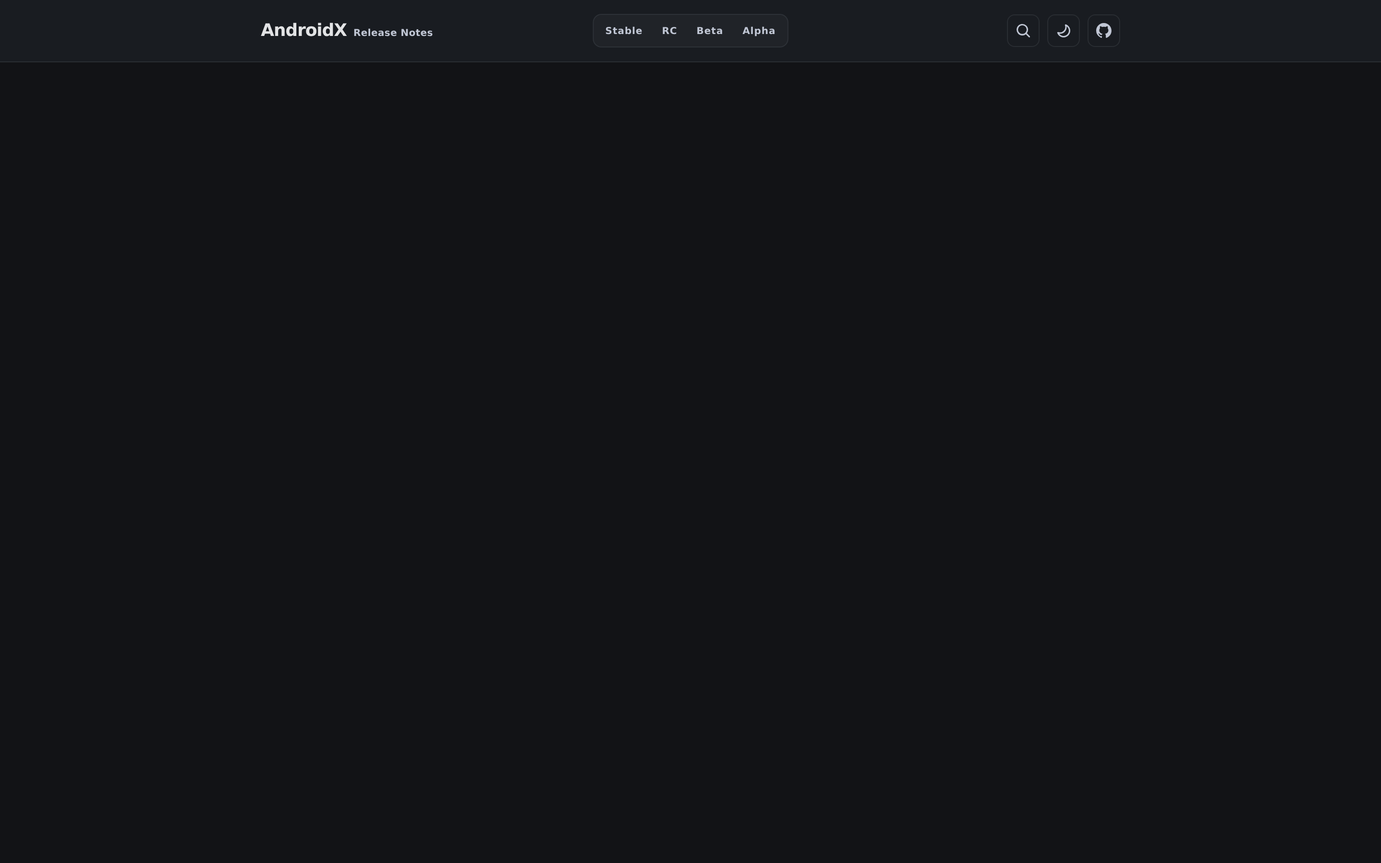
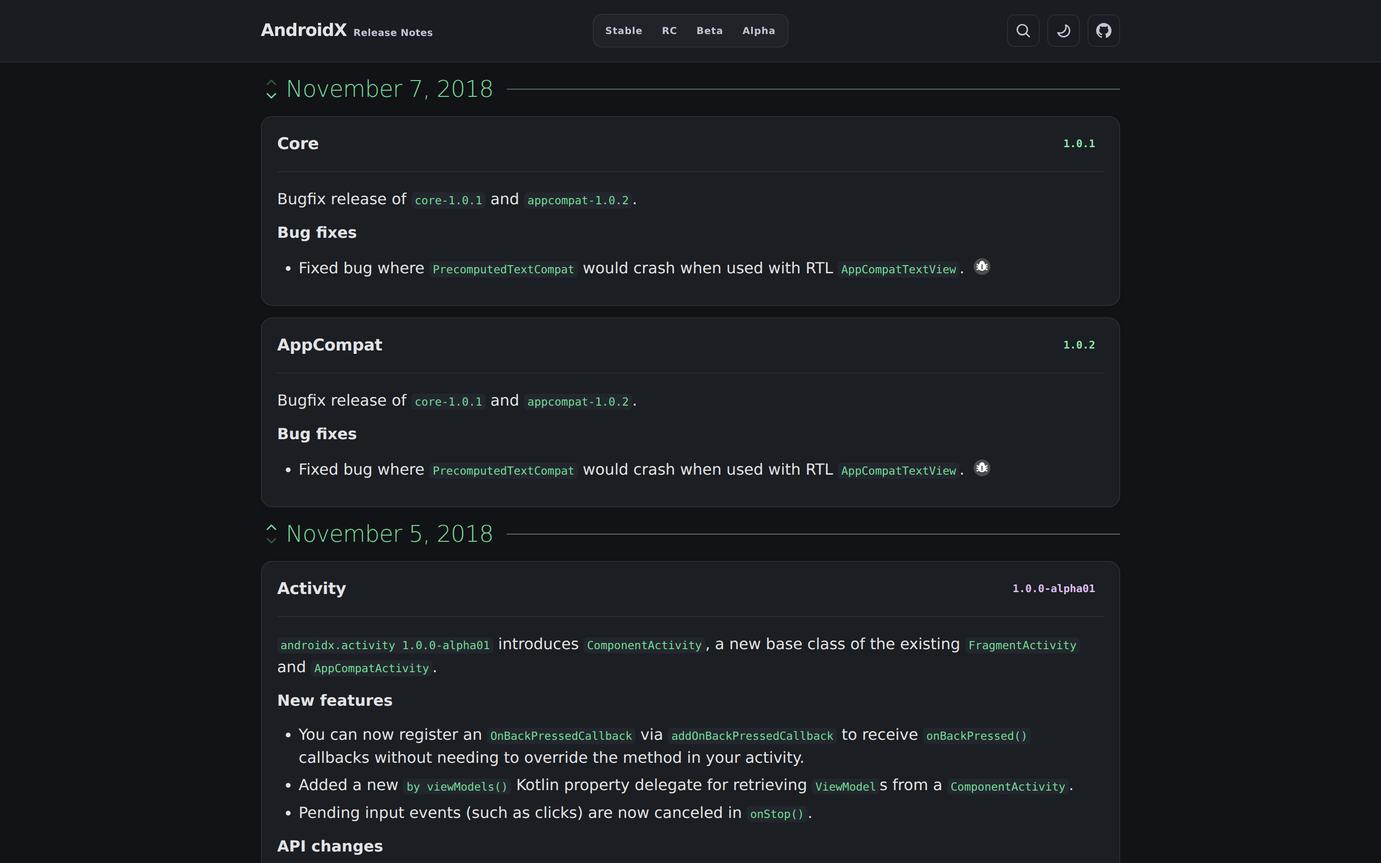
🤖 AndroidX release notes

diff --git a/docs/index.html b/docs/index.html
@@ -24,7 +24,77 @@
     </header>
     <main class="page-content">
       <div class="content-inner">
-        <div class="release-groups"></div>
+        <div class="release-groups">
+          <section class="date-group" id="november-7-2018">
+            <div class="date-divider">
+              <div class="date-stepper" role="group" aria-label="Navigate release dates"><button type="button" class="date-step" data-date-step="previous" aria-label="Previous date (newer)" title="Previous date (newer) · P" aria-keyshortcuts="P"></button><button type="button" class="date-step" data-date-step="next" aria-label="Next date (older)" title="Next date (older) · N" aria-keyshortcuts="N"></button></div>
+              <h2 class="date-title"><a href="2018-11-07.html" class="date-link" target="_self">November 7, 2018</a></h2>
+              <div class="divider-line"></div>
+            </div>
+            <article class="card" data-release-kind="stable" data-search="core 1.0.1 2018-11-07 november 7, 2018" id="november-7-2018-core-1-0-1">
+              <div class="head">
+                <h3 class="name"><a href="https://developer.android.com/jetpack/androidx/releases/core">Core</a></h3>
+                <div class="actions"><a href="https://developer.android.com/jetpack/androidx/releases/core#1.0.1" class="badge stable">1.0.1</a></div>
+              </div>
+              <div class="notes"><p>Bugfix release of <code>core-1.0.1</code> and <code>appcompat-1.0.2</code>.</p><p><strong>Bug fixes</strong></p><ul><li>Fixed bug where <code>PrecomputedTextCompat</code> would crash when used with RTL <code>AppCompatTextView</code>. <a href="https://issuetracker.google.com/113070424" title="b/113070424" class="ref ref-issue">b/113070424</a></li></ul></div>
+            </article>
+            <article class="card" data-release-kind="stable" data-search="appcompat 1.0.2 2018-11-07 november 7, 2018" id="november-7-2018-appcompat-1-0-2">
+              <div class="head">
+                <h3 class="name"><a href="https://developer.android.com/jetpack/androidx/releases/appcompat">AppCompat</a></h3>
+                <div class="actions"><a href="https://developer.android.com/jetpack/androidx/releases/appcompat#1.0.2" class="badge stable">1.0.2</a></div>
+              </div>
+              <div class="notes"><p>Bugfix release of <code>core-1.0.1</code> and <code>appcompat-1.0.2</code>.</p><p><strong>Bug fixes</strong></p><ul><li>Fixed bug where <code>PrecomputedTextCompat</code> would crash when used with RTL <code>AppCompatTextView</code>. <a href="https://issuetracker.google.com/113070424" title="b/113070424" class="ref ref-issue">b/113070424</a></li></ul></div>
+            </article>
+          </section>
+          <section class="date-group" id="november-5-2018">
+            <div class="date-divider">
+              <div class="date-stepper" role="group" aria-label="Navigate release dates"><button type="button" class="date-step" data-date-step="previous" aria-label="Previous date (newer)" title="Previous date (newer) · P" aria-keyshortcuts="P"></button><button type="button" class="date-step" data-date-step="next" aria-label="Next date (older)" title="Next date (older) · N" aria-keyshortcuts="N"></button></div>
+              <h2 class="date-title"><a href="2018-11-05.html" class="date-link" target="_self">November 5, 2018</a></h2>
+              <div class="divider-line"></div>
+            </div>
+            <article class="card" data-release-kind="alpha" data-search="activity 1.0.0-alpha01 2018-11-05 november 5, 2018" id="november-5-2018-activity-1-0-0-alpha01">
+              <div class="head">
+                <h3 class="name"><a href="https://developer.android.com/jetpack/androidx/releases/activity">Activity</a></h3>
+                <div class="actions"><a href="https://developer.android.com/jetpack/androidx/releases/activity#1.0.0-alpha01" class="badge alpha">1.0.0-alpha01</a></div>
+              </div>
+              <div class="notes"><p><code>androidx.activity 1.0.0-alpha01</code> introduces <code>ComponentActivity</code>, a new base class of the existing <code>FragmentActivity</code> and <code>AppCompatActivity</code>.</p><p><strong>New features</strong></p><ul><li>You can now register an <code>OnBackPressedCallback</code> via <code>addOnBackPressedCallback</code> to receive <code>onBackPressed()</code> callbacks without needing to override the method in your activity.</li><li>Added a new <code>by viewModels()</code> Kotlin property delegate for retrieving <code>ViewModel</code>s from a <code>ComponentActivity</code>.</li><li>Pending input events (such as clicks) are now canceled in <code>onStop()</code>.</li></ul><p><strong>API changes</strong></p><ul><li>The implementation of <code>LifecycleOwner</code> and <code>ViewModelStoreOwner</code> have been moved from <code>FragmentActivity</code> to <code>ComponentActivity</code>.</li><li><code>onRetainCustomNonConfigurationInstance</code> has been deprecated. Use a <code>ViewModel</code> for storing objects that need to survive configuration changes.</li></ul></div>
+            </article>
+            <article class="card" data-release-kind="alpha" data-search="core-telecom 1.1.0-alpha01 2018-11-05 november 5, 2018" id="november-5-2018-core-1-1-0-alpha01">
+              <div class="head">
+                <h3 class="name"><a href="https://developer.android.com/jetpack/androidx/releases/core">Core-Telecom</a></h3>
+                <div class="actions"><a href="https://developer.android.com/jetpack/androidx/releases/core#1.1.0-alpha01" class="badge alpha">1.1.0-alpha01</a></div>
+              </div>
+              <div class="notes"><p><strong>New features and API changes</strong></p><ul><li>NestedScrollingChild3 and NestedScrollingParent3 add the ‘consumed’ parameter to the overloaded dispatchNestedScroll and * onNestedScroll methods so that the view that drives nested scrolling can be better informed about how much scroll distance was * consumed by parents in each nested scroll pass.</li><li>NestedScrollView now implements NestedScrollingChild3 and NestedScrollingParent3, and therefore, the NestedScrollingChild2 and * NestedScrollingParent2 implementations of dispatchNestedScroll and onNestedScroll are not guaranteed to be called. Developers * counting on either being called should also override the new nested scrolling 3 version of dispatchNestedScroll and onNestedScroll.</li><li>ShortcutInfoCompat has the following new fields: Persons, categories and isLongLived. Done to advertise it can accept various types * of content.</li><li>Renamed SupportActivity to ComponentActivity. See androidx.activity for more info.</li><li>Added getMainExecutor() method, which returns an Executor link that will run enqueued tasks on the main thread associated with that * context.</li><li>Added compatibility implementation of Resources.getFloat.</li><li>Added Results Source to compat RemoteInput. This allows apps to distinguish direct and smart replies for logging purposes.</li><li>Added Kotlin extension functions for TextView TextWatcher actions.</li><li>Deprecated AccessibilityNodeInfo capability and flag setters; use actions instead.</li><li>Added AccessibilityPane to ViewCompat.</li><li>Exposed ClickableSpans on pre-O devices through the addition of AccessibilityClickableSpanCompat.</li><li>Deprecated <code>AccessibilityNodeInfoCompat.setFocusable()</code>, <code>setClickable()</code>, <code>setLongClickable()</code>, <code>setScrollable()</code>, and <code>setContextClickable()</code>. Added <code>AccessibilityAction</code>s instead.</li><li>Added <code>ViewCompat.setAccessibilityPaneTitle()</code>, <code>getAccessibilityPaneTitle()</code>, <code>setScreenReaderFocusable()</code>, <code>isScreenReaderFocusable()</code>, <code>setAccessibilityHeading()</code>, and <code>isAccessibilityHeading()</code>, to backport this <code>View</code> accessibility functionality through API 19.</li><li>Added <code>ViewCompat.enableAccessibleClickableSpanSupport()</code> to allow developers to make non-URL <code>ClickableSpan</code>s accessible back through API 19.</li></ul><p><strong>Bug fixes</strong></p><ul><li>Fixed bug that caused <code>ResourcesCompat.getFont()</code> crash when the network fails, when using downloadable fonts.</li><li>Fixed Null Pointer Exception in TypefaceCompatApi21 that occurred when <code>ContentResolver</code> returned null.</li><li>Fixed type error in Array Utils where it expected ColorStateList but got raw colors.</li></ul></div>
+            </article>
+            <article class="card" data-release-kind="stable" data-search="core 1.0.1 2018-11-05 november 5, 2018" id="november-5-2018-core-ktx-1-0-1">
+              <div class="head">
+                <h3 class="name"><a href="https://developer.android.com/jetpack/androidx/releases/core">Core</a></h3>
+                <div class="actions"><a href="https://developer.android.com/jetpack/androidx/releases/core#core-ktx-1.0.1" class="badge stable">1.0.1</a></div>
+              </div>
+            </article>
+            <article class="card" data-release-kind="alpha" data-search="fragment 1.1.0-alpha01 2018-11-05 november 5, 2018" id="november-5-2018-fragment-1-1-0-alpha01">
+              <div class="head">
+                <h3 class="name"><a href="https://developer.android.com/jetpack/androidx/releases/fragment">Fragment</a></h3>
+                <div class="actions"><a href="https://developer.android.com/jetpack/androidx/releases/fragment#1.1.0-alpha01" class="badge alpha">1.1.0-alpha01</a></div>
+              </div>
+              <div class="notes"><p>This is the first release of the <code>fragment-testing</code> artifact and <code>FragmentScenario</code> which is built on top of the androidx.test:core APIs. See the <a href="https://developer.android.com/training/basics/fragments/testing">Fragment testing documentation</a> for more details.</p><p><strong>New features</strong></p><ul><li>New FragmentScenario class for testing Fragments in isolation.</li><li>You can now set a <code>FragmentFactory</code> on any <code>FragmentManager</code> to control how new Fragment instances are instantiated.</li><li>Added a new <code>by viewModels()</code> Kotlin property delegate for retrieving ViewModels from a Fragment.</li><li>Pending input events (such as clicks) are now canceled in a Fragment’s <code>onStop()</code>.</li></ul><p><strong>API changes</strong></p><ul><li>Significantly expanded the nullability annotations across the Fragment API surface.</li></ul><p><strong>Bug fixes</strong></p><ul><li>Fix an issue which caused Fragment operations to fail from within LiveData <a href="https://issuetracker.google.com/issues/77944637" title="(b/77944637)" class="ref ref-issue">(b/77944637)</a></li></ul><p><strong>Known issues</strong></p><ul><li>Target Fragments cannot be accessed after a Fragment has been removed from the FragmentManager.</li><li><code>fragment-testing</code> depends on <code>androidx.test:core:1.0.0-beta01</code> instead of the correct <code>androidx.test:core:1.0.0</code>.</li></ul></div>
+            </article>
+            <article class="card" data-release-kind="alpha" data-search="preference 1.1.0-alpha01 2018-11-05 november 5, 2018" id="november-5-2018-preference-1-1-0-alpha01">
+              <div class="head">
+                <h3 class="name"><a href="https://developer.android.com/jetpack/androidx/releases/preference">Preference</a></h3>
+                <div class="actions"><a href="https://developer.android.com/jetpack/androidx/releases/preference#1.1.0-alpha01" class="badge alpha">1.1.0-alpha01</a></div>
+              </div>
+              <div class="notes"><p><strong>New features</strong></p><ul><li>You can now set a SummaryProvider on a Preference to dynamically configure its summary whenever the Preference is updated, or becomes visible to the user.</li><li>Added default SummaryProvider implementations for ListPreference and EditTextPreference, which when set will automatically update the summary of the Preference to reflect its saved value, or ‘Not Set’ if no value has been saved. These can be set with app:useSimpleSummaryProvider=”true”</li><li>Added PreferenceGroup#removePreferenceRecursively which recursively finds and removes a Preference from the group, or a nested group lower down in the hierarchy.</li></ul><p><strong>API changes</strong></p><ul><li>PreferenceFragment and other classes using framework Fragments have been deprecated - you should use PreferenceFragmentCompat and other compat classes instead.</li></ul><p><strong>Bug fixes</strong></p><ul><li>Fixed iconSpaceReserved not working correctly with PreferenceCategories.</li><li>Fixed PreferenceCategories not using colorAccent for their title’s color below API 21.</li><li>Fixed some SeekBarPreference layout inconsistencies below API 21.</li></ul></div>
+            </article>
+            <article class="card" data-release-kind="alpha" data-search="versionedparcelable 1.1.0-alpha01 2018-11-05 november 5, 2018" id="november-5-2018-versionedparcelable-1-1-0-alpha01">
+              <div class="head">
+                <h3 class="name"><a href="https://developer.android.com/jetpack/androidx/releases/versionedparcelable">VersionedParcelable</a></h3>
+                <div class="actions"><a href="https://developer.android.com/jetpack/androidx/releases/versionedparcelable#1.1.0-alpha01" class="badge alpha">1.1.0-alpha01</a></div>
+              </div>
+              <div class="notes"><p><strong>New features</strong></p><ul><li>Added support for CharSequence in all classes except VersionedParcelStream.</li><li>Added support for SuperClass, Set, and Map.</li></ul><p><strong>Bug fixes</strong></p><ul><li>Fixed a bug with checking IDs in inherited classes.</li></ul></div>
+            </article>
+          </section>
+        </div>
       </div>
     </main>
     <script src="assets/site.js"></script>

diff --git a/docs/2018-11-05.html b/docs/2018-11-05.html
@@ -1,0 +1,79 @@
+<!DOCTYPE html>
+<html lang="en">
+  <head>
+    <meta charset="utf-8">
+    <meta name="viewport" content="width=device-width, initial-scale=1">
+    <meta name="color-scheme" content="light dark">
+    <meta name="theme-color" content="#ffffff" media="(prefers-color-scheme: light)">
+    <meta name="theme-color" content="#1b1e22" media="(prefers-color-scheme: dark)">
+<base target="_blank">
+    <title>November 5, 2018 · AndroidX Release Notes</title>
+    <meta name="description" content="AndroidX release notes for November 5, 2018: Activity 1.0.0-alpha01, Core-Telecom 1.1.0-alpha01, Core 1.0.1, Fragment 1.1.0-alpha01, and more.">
+    <link href="https://simonmarquis.github.io/androidx-release-notes/2018-11-05.html" rel="canonical">
+    <link href="assets/favicon.svg" rel="icon" type="image/svg+xml">
+    <link href="assets/site.css" rel="stylesheet">
+    <script src="assets/theme.js"></script>
+  </head>
+  <body>
+    <header class="site-header">
+      <div class="header-inner"><a href="./" class="brand" target="_self"><span class="brand-name">AndroidX</span><span class="brand-subtitle">Release Notes</span></a>
+        <div class="header-filters" role="group" aria-label="Filter by stability"><button type="button" class="filter-btn stable" data-filter="stable" aria-pressed="false">Stable</button><button type="button" class="filter-btn rc" data-filter="rc" aria-pressed="false">RC</button><button type="button" class="filter-btn beta" data-filter="beta" aria-pressed="false">Beta</button><button type="button" class="filter-btn alpha" data-filter="alpha" aria-pressed="false">Alpha</button></div>
+        <div class="search-control"><label class="search-icon" for="release-search" title="Search"></label><input type="search" name="release-search" id="release-search" placeholder="Name, version, date…" autocomplete="off" aria-label="Filter components by name, version or date"></div>
+<button type="button" class="theme-toggle" id="theme-toggle" title="Toggle theme"></button><a href="https://github.com/SimonMarquis/androidx-release-notes" class="github-link" title="View project on GitHub"></a></div>
+    </header>
+    <main class="page-content">
+      <div class="content-inner">
+        <div class="release-groups">
+          <section class="date-group" id="november-5-2018">
+            <div class="date-divider"><a href="./#november-5-2018" class="date-back" target="_self" title="All releases"></a>
+              <h2 class="date-title">November 5, 2018</h2>
+              <div class="divider-line"></div>
+            </div>
+            <article class="card" data-release-kind="alpha" data-search="activity 1.0.0-alpha01 2018-11-05 november 5, 2018" id="november-5-2018-activity-1-0-0-alpha01">
+              <div class="head">
+                <h3 class="name"><a href="https://developer.android.com/jetpack/androidx/releases/activity">Activity</a></h3>
+                <div class="actions"><a href="https://developer.android.com/jetpack/androidx/releases/activity#1.0.0-alpha01" class="badge alpha">1.0.0-alpha01</a></div>
+              </div>
+              <div class="notes"><p><code>androidx.activity 1.0.0-alpha01</code> introduces <code>ComponentActivity</code>, a new base class of the existing <code>FragmentActivity</code> and <code>AppCompatActivity</code>.</p><p><strong>New features</strong></p><ul><li>You can now register an <code>OnBackPressedCallback</code> via <code>addOnBackPressedCallback</code> to receive <code>onBackPressed()</code> callbacks without needing to override the method in your activity.</li><li>Added a new <code>by viewModels()</code> Kotlin property delegate for retrieving <code>ViewModel</code>s from a <code>ComponentActivity</code>.</li><li>Pending input events (such as clicks) are now canceled in <code>onStop()</code>.</li></ul><p><strong>API changes</strong></p><ul><li>The implementation of <code>LifecycleOwner</code> and <code>ViewModelStoreOwner</code> have been moved from <code>FragmentActivity</code> to <code>ComponentActivity</code>.</li><li><code>onRetainCustomNonConfigurationInstance</code> has been deprecated. Use a <code>ViewModel</code> for storing objects that need to survive configuration changes.</li></ul></div>
+            </article>
+            <article class="card" data-release-kind="alpha" data-search="core-telecom 1.1.0-alpha01 2018-11-05 november 5, 2018" id="november-5-2018-core-1-1-0-alpha01">
+              <div class="head">
+                <h3 class="name"><a href="https://developer.android.com/jetpack/androidx/releases/core">Core-Telecom</a></h3>
+                <div class="actions"><a href="https://developer.android.com/jetpack/androidx/releases/core#1.1.0-alpha01" class="badge alpha">1.1.0-alpha01</a></div>
+              </div>
+              <div class="notes"><p><strong>New features and API changes</strong></p><ul><li>NestedScrollingChild3 and NestedScrollingParent3 add the ‘consumed’ parameter to the overloaded dispatchNestedScroll and * onNestedScroll methods so that the view that drives nested scrolling can be better informed about how much scroll distance was * consumed by parents in each nested scroll pass.</li><li>NestedScrollView now implements NestedScrollingChild3 and NestedScrollingParent3, and therefore, the NestedScrollingChild2 and * NestedScrollingParent2 implementations of dispatchNestedScroll and onNestedScroll are not guaranteed to be called. Developers * counting on either being called should also override the new nested scrolling 3 version of dispatchNestedScroll and onNestedScroll.</li><li>ShortcutInfoCompat has the following new fields: Persons, categories and isLongLived. Done to advertise it can accept various types * of content.</li><li>Renamed SupportActivity to ComponentActivity. See androidx.activity for more info.</li><li>Added getMainExecutor() method, which returns an Executor link that will run enqueued tasks on the main thread associated with that * context.</li><li>Added compatibility implementation of Resources.getFloat.</li><li>Added Results Source to compat RemoteInput. This allows apps to distinguish direct and smart replies for logging purposes.</li><li>Added Kotlin extension functions for TextView TextWatcher actions.</li><li>Deprecated AccessibilityNodeInfo capability and flag setters; use actions instead.</li><li>Added AccessibilityPane to ViewCompat.</li><li>Exposed ClickableSpans on pre-O devices through the addition of AccessibilityClickableSpanCompat.</li><li>Deprecated <code>AccessibilityNodeInfoCompat.setFocusable()</code>, <code>setClickable()</code>, <code>setLongClickable()</code>, <code>setScrollable()</code>, and <code>setContextClickable()</code>. Added <code>AccessibilityAction</code>s instead.</li><li>Added <code>ViewCompat.setAccessibilityPaneTitle()</code>, <code>getAccessibilityPaneTitle()</code>, <code>setScreenReaderFocusable()</code>, <code>isScreenReaderFocusable()</code>, <code>setAccessibilityHeading()</code>, and <code>isAccessibilityHeading()</code>, to backport this <code>View</code> accessibility functionality through API 19.</li><li>Added <code>ViewCompat.enableAccessibleClickableSpanSupport()</code> to allow developers to make non-URL <code>ClickableSpan</code>s accessible back through API 19.</li></ul><p><strong>Bug fixes</strong></p><ul><li>Fixed bug that caused <code>ResourcesCompat.getFont()</code> crash when the network fails, when using downloadable fonts.</li><li>Fixed Null Pointer Exception in TypefaceCompatApi21 that occurred when <code>ContentResolver</code> returned null.</li><li>Fixed type error in Array Utils where it expected ColorStateList but got raw colors.</li></ul></div>
+            </article>
+            <article class="card" data-release-kind="stable" data-search="core 1.0.1 2018-11-05 november 5, 2018" id="november-5-2018-core-ktx-1-0-1">
+              <div class="head">
+                <h3 class="name"><a href="https://developer.android.com/jetpack/androidx/releases/core">Core</a></h3>
+                <div class="actions"><a href="https://developer.android.com/jetpack/androidx/releases/core#core-ktx-1.0.1" class="badge stable">1.0.1</a></div>
+              </div>
+            </article>
+            <article class="card" data-release-kind="alpha" data-search="fragment 1.1.0-alpha01 2018-11-05 november 5, 2018" id="november-5-2018-fragment-1-1-0-alpha01">
+              <div class="head">
+                <h3 class="name"><a href="https://developer.android.com/jetpack/androidx/releases/fragment">Fragment</a></h3>
+                <div class="actions"><a href="https://developer.android.com/jetpack/androidx/releases/fragment#1.1.0-alpha01" class="badge alpha">1.1.0-alpha01</a></div>
+              </div>
+              <div class="notes"><p>This is the first release of the <code>fragment-testing</code> artifact and <code>FragmentScenario</code> which is built on top of the androidx.test:core APIs. See the <a href="https://developer.android.com/training/basics/fragments/testing">Fragment testing documentation</a> for more details.</p><p><strong>New features</strong></p><ul><li>New FragmentScenario class for testing Fragments in isolation.</li><li>You can now set a <code>FragmentFactory</code> on any <code>FragmentManager</code> to control how new Fragment instances are instantiated.</li><li>Added a new <code>by viewModels()</code> Kotlin property delegate for retrieving ViewModels from a Fragment.</li><li>Pending input events (such as clicks) are now canceled in a Fragment’s <code>onStop()</code>.</li></ul><p><strong>API changes</strong></p><ul><li>Significantly expanded the nullability annotations across the Fragment API surface.</li></ul><p><strong>Bug fixes</strong></p><ul><li>Fix an issue which caused Fragment operations to fail from within LiveData <a href="https://issuetracker.google.com/issues/77944637" title="(b/77944637)" class="ref ref-issue">(b/77944637)</a></li></ul><p><strong>Known issues</strong></p><ul><li>Target Fragments cannot be accessed after a Fragment has been removed from the FragmentManager.</li><li><code>fragment-testing</code> depends on <code>androidx.test:core:1.0.0-beta01</code> instead of the correct <code>androidx.test:core:1.0.0</code>.</li></ul></div>
+            </article>
+            <article class="card" data-release-kind="alpha" data-search="preference 1.1.0-alpha01 2018-11-05 november 5, 2018" id="november-5-2018-preference-1-1-0-alpha01">
+              <div class="head">
+                <h3 class="name"><a href="https://developer.android.com/jetpack/androidx/releases/preference">Preference</a></h3>
+                <div class="actions"><a href="https://developer.android.com/jetpack/androidx/releases/preference#1.1.0-alpha01" class="badge alpha">1.1.0-alpha01</a></div>
+              </div>
+              <div class="notes"><p><strong>New features</strong></p><ul><li>You can now set a SummaryProvider on a Preference to dynamically configure its summary whenever the Preference is updated, or becomes visible to the user.</li><li>Added default SummaryProvider implementations for ListPreference and EditTextPreference, which when set will automatically update the summary of the Preference to reflect its saved value, or ‘Not Set’ if no value has been saved. These can be set with app:useSimpleSummaryProvider=”true”</li><li>Added PreferenceGroup#removePreferenceRecursively which recursively finds and removes a Preference from the group, or a nested group lower down in the hierarchy.</li></ul><p><strong>API changes</strong></p><ul><li>PreferenceFragment and other classes using framework Fragments have been deprecated - you should use PreferenceFragmentCompat and other compat classes instead.</li></ul><p><strong>Bug fixes</strong></p><ul><li>Fixed iconSpaceReserved not working correctly with PreferenceCategories.</li><li>Fixed PreferenceCategories not using colorAccent for their title’s color below API 21.</li><li>Fixed some SeekBarPreference layout inconsistencies below API 21.</li></ul></div>
+            </article>
+            <article class="card" data-release-kind="alpha" data-search="versionedparcelable 1.1.0-alpha01 2018-11-05 november 5, 2018" id="november-5-2018-versionedparcelable-1-1-0-alpha01">
+              <div class="head">
+                <h3 class="name"><a href="https://developer.android.com/jetpack/androidx/releases/versionedparcelable">VersionedParcelable</a></h3>
+                <div class="actions"><a href="https://developer.android.com/jetpack/androidx/releases/versionedparcelable#1.1.0-alpha01" class="badge alpha">1.1.0-alpha01</a></div>
+              </div>
+              <div class="notes"><p><strong>New features</strong></p><ul><li>Added support for CharSequence in all classes except VersionedParcelStream.</li><li>Added support for SuperClass, Set, and Map.</li></ul><p><strong>Bug fixes</strong></p><ul><li>Fixed a bug with checking IDs in inherited classes.</li></ul></div>
+            </article>
+          </section>
+        </div>
+      </div>
+    </main>
+    <script src="assets/site.js"></script>
+  </body>
+</html>

diff --git a/docs/2018-11-07.html b/docs/2018-11-07.html
@@ -1,0 +1,52 @@
+<!DOCTYPE html>
+<html lang="en">
+  <head>
+    <meta charset="utf-8">
+    <meta name="viewport" content="width=device-width, initial-scale=1">
+    <meta name="color-scheme" content="light dark">
+    <meta name="theme-color" content="#ffffff" media="(prefers-color-scheme: light)">
+    <meta name="theme-color" content="#1b1e22" media="(prefers-color-scheme: dark)">
+<base target="_blank">
+    <title>November 7, 2018 · AndroidX Release Notes</title>
+    <meta name="description" content="AndroidX release notes for November 7, 2018: Core 1.0.1, AppCompat 1.0.2.">
+    <link href="https://simonmarquis.github.io/androidx-release-notes/2018-11-07.html" rel="canonical">
+    <link href="assets/favicon.svg" rel="icon" type="image/svg+xml">
+    <link href="assets/site.css" rel="stylesheet">
+    <script src="assets/theme.js"></script>
+  </head>
+  <body>
+    <header class="site-header">
+      <div class="header-inner"><a href="./" class="brand" target="_self"><span class="brand-name">AndroidX</span><span class="brand-subtitle">Release Notes</span></a>
+        <div class="header-filters" role="group" aria-label="Filter by stability"><button type="button" class="filter-btn stable" data-filter="stable" aria-pressed="false">Stable</button><button type="button" class="filter-btn rc" data-filter="rc" aria-pressed="false">RC</button><button type="button" class="filter-btn beta" data-filter="beta" aria-pressed="false">Beta</button><button type="button" class="filter-btn alpha" data-filter="alpha" aria-pressed="false">Alpha</button></div>
+        <div class="search-control"><label class="search-icon" for="release-search" title="Search"></label><input type="search" name="release-search" id="release-search" placeholder="Name, version, date…" autocomplete="off" aria-label="Filter components by name, version or date"></div>
+<button type="button" class="theme-toggle" id="theme-toggle" title="Toggle theme"></button><a href="https://github.com/SimonMarquis/androidx-release-notes" class="github-link" title="View project on GitHub"></a></div>
+    </header>
+    <main class="page-content">
+      <div class="content-inner">
+        <div class="release-groups">
+          <section class="date-group" id="november-7-2018">
+            <div class="date-divider"><a href="./#november-7-2018" class="date-back" target="_self" title="All releases"></a>
+              <h2 class="date-title">November 7, 2018</h2>
+              <div class="divider-line"></div>
+            </div>
+            <article class="card" data-release-kind="stable" data-search="core 1.0.1 2018-11-07 november 7, 2018" id="november-7-2018-core-1-0-1">
+              <div class="head">
+                <h3 class="name"><a href="https://developer.android.com/jetpack/androidx/releases/core">Core</a></h3>
+                <div class="actions"><a href="https://developer.android.com/jetpack/androidx/releases/core#1.0.1" class="badge stable">1.0.1</a></div>
+              </div>
+              <div class="notes"><p>Bugfix release of <code>core-1.0.1</code> and <code>appcompat-1.0.2</code>.</p><p><strong>Bug fixes</strong></p><ul><li>Fixed bug where <code>PrecomputedTextCompat</code> would crash when used with RTL <code>AppCompatTextView</code>. <a href="https://issuetracker.google.com/113070424" title="b/113070424" class="ref ref-issue">b/113070424</a></li></ul></div>
+            </article>
+            <article class="card" data-release-kind="stable" data-search="appcompat 1.0.2 2018-11-07 november 7, 2018" id="november-7-2018-appcompat-1-0-2">
+              <div class="head">
+                <h3 class="name"><a href="https://developer.android.com/jetpack/androidx/releases/appcompat">AppCompat</a></h3>
+                <div class="actions"><a href="https://developer.android.com/jetpack/androidx/releases/appcompat#1.0.2" class="badge stable">1.0.2</a></div>
+              </div>
+              <div class="notes"><p>Bugfix release of <code>core-1.0.1</code> and <code>appcompat-1.0.2</code>.</p><p><strong>Bug fixes</strong></p><ul><li>Fixed bug where <code>PrecomputedTextCompat</code> would crash when used with RTL <code>AppCompatTextView</code>. <a href="https://issuetracker.google.com/113070424" title="b/113070424" class="ref ref-issue">b/113070424</a></li></ul></div>
+            </article>
+          </section>
+        </div>
+      </div>
+    </main>
+    <script src="assets/site.js"></script>
+  </body>
+</html>
